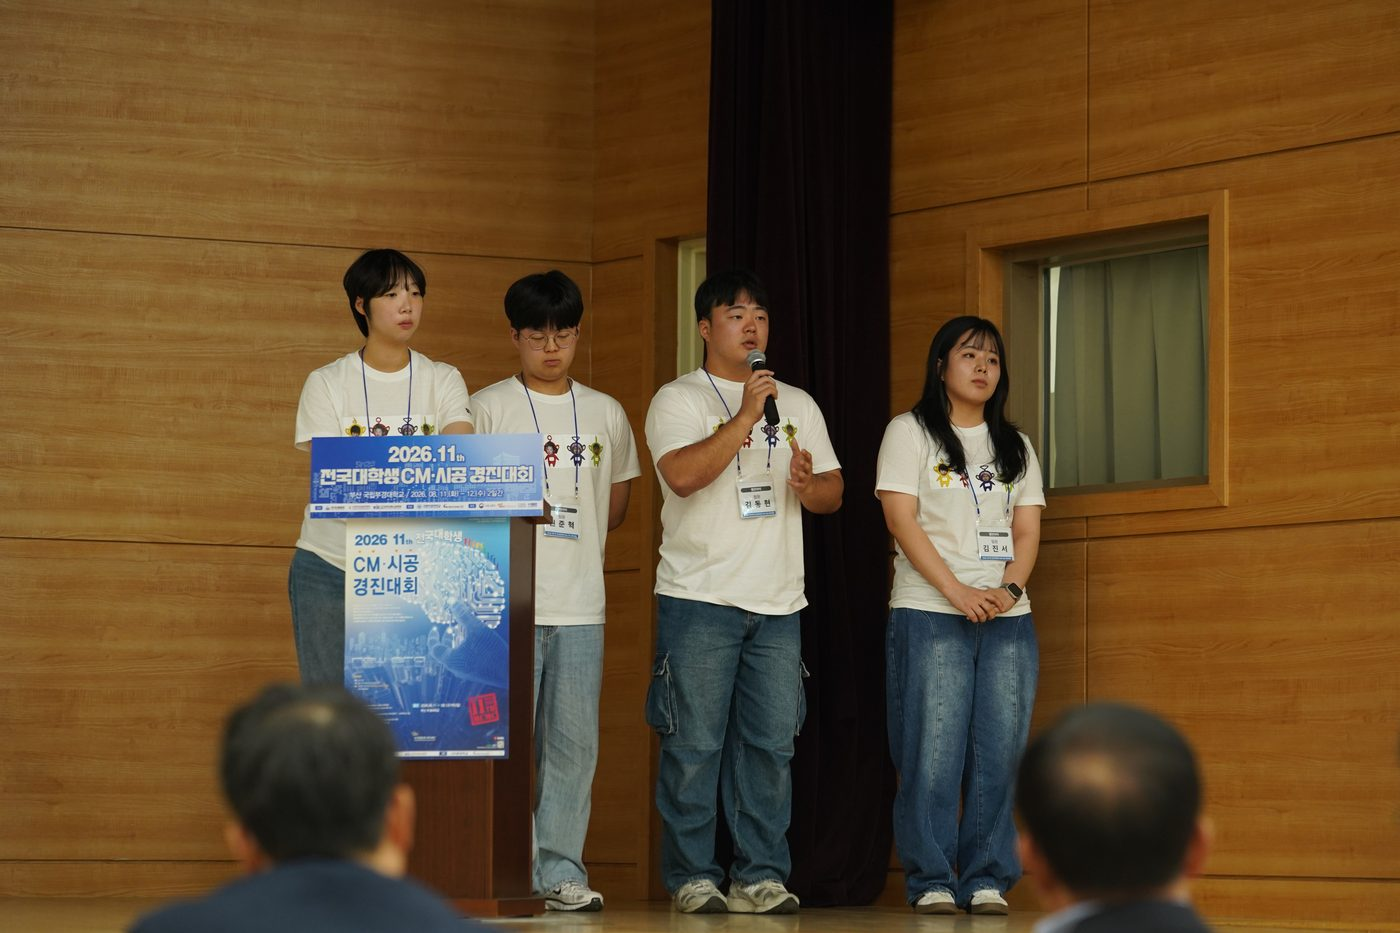
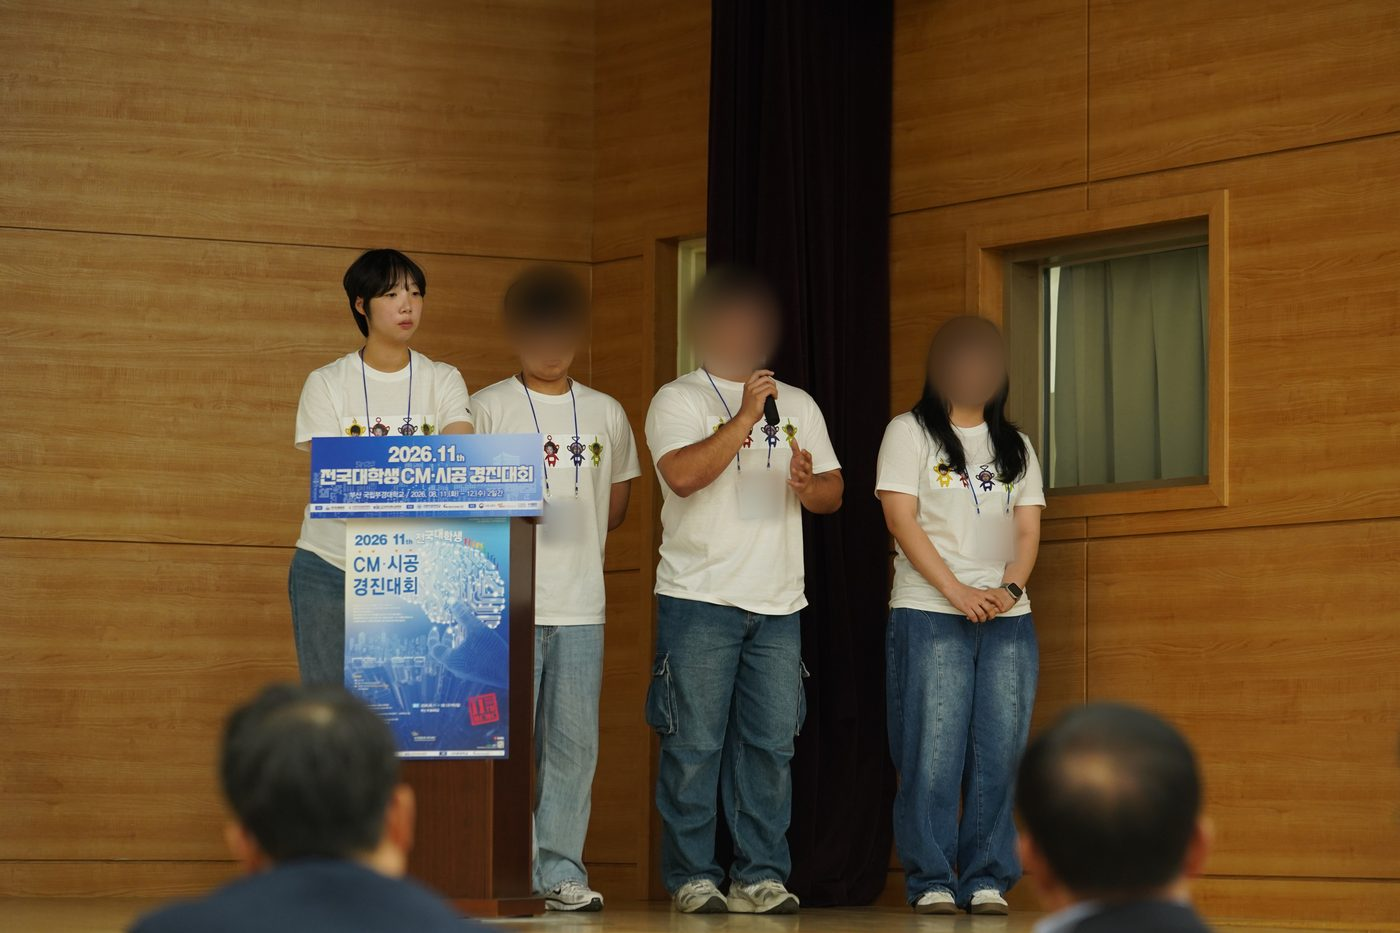
무영CM 대회장 전경 복원, 팀 발표 사진의 다른 팀원 얼굴·명찰 흐림 처리

diff --git a/activity/index.html b/activity/index.html
@@ -47,7 +47,7 @@
         <button class="fbtn" data-f="campus" aria-pressed="false">교내</button>
       </div>
       <ul class="acts rise" aria-live="polite">
-        <li class="act has" data-c="contest"><span class="y">2026</span><span class="cat"><span class="chip r">공모전·대회</span></span><span class="n"><button type="button" class="gopen" data-g="cm">무영CM 경진대회</button></span><span class="res"><span class="pic" aria-hidden="true"><svg viewBox="0 0 24 24" fill="none" stroke="currentColor" stroke-width="2" stroke-linecap="round" stroke-linejoin="round" aria-hidden="true"><rect x="3" y="6" width="18" height="14" rx="3"/><circle cx="12" cy="13" r="3.5"/><path d="M9 6l1.5-2h3L15 6"/></svg><span class="t">사진 </span>2</span><span class="chip r">혁신상</span></span></li>
+        <li class="act has" data-c="contest"><span class="y">2026</span><span class="cat"><span class="chip r">공모전·대회</span></span><span class="n"><button type="button" class="gopen" data-g="cm">무영CM 경진대회</button></span><span class="res"><span class="pic" aria-hidden="true"><svg viewBox="0 0 24 24" fill="none" stroke="currentColor" stroke-width="2" stroke-linecap="round" stroke-linejoin="round" aria-hidden="true"><rect x="3" y="6" width="18" height="14" rx="3"/><circle cx="12" cy="13" r="3.5"/><path d="M9 6l1.5-2h3L15 6"/></svg><span class="t">사진 </span>4</span><span class="chip r">혁신상</span></span></li>
         <li class="act has" data-c="contest"><span class="y">2026</span><span class="cat"><span class="chip r">공모전·대회</span></span><span class="n"><button type="button" class="gopen" data-g="schedule">한국건설관리학회 공정관리 경진대회</button><small>PERT·CPM 일정 계산 담당</small></span><span class="res"><span class="pic" aria-hidden="true"><svg viewBox="0 0 24 24" fill="none" stroke="currentColor" stroke-width="2" stroke-linecap="round" stroke-linejoin="round" aria-hidden="true"><rect x="3" y="6" width="18" height="14" rx="3"/><circle cx="12" cy="13" r="3.5"/><path d="M9 6l1.5-2h3L15 6"/></svg><span class="t">사진 </span>5</span><span class="chip line">참가</span></span></li>
         <li class="act has" data-c="contest"><span class="y">2026</span><span class="cat"><span class="chip r">공모전·대회</span></span><span class="n"><button type="button" class="gopen" data-g="road">제15회 도로경관디자인 대전</button><small>한국도로공사 · AI 활용 부문</small></span><span class="res"><span class="pic" aria-hidden="true"><svg viewBox="0 0 24 24" fill="none" stroke="currentColor" stroke-width="2" stroke-linecap="round" stroke-linejoin="round" aria-hidden="true"><rect x="3" y="6" width="18" height="14" rx="3"/><circle cx="12" cy="13" r="3.5"/><path d="M9 6l1.5-2h3L15 6"/></svg><span class="t">사진 </span>4</span><span class="chip line">출품</span></span></li>
         <li class="act has" data-c="ext"><span class="y">2026</span><span class="cat"><span class="chip o">대외</span></span><span class="n"><button type="button" class="gopen" data-g="intern">제일건설 풍경채 현장 인턴십</button></span><span class="res"><span class="pic" aria-hidden="true"><svg viewBox="0 0 24 24" fill="none" stroke="currentColor" stroke-width="2" stroke-linecap="round" stroke-linejoin="round" aria-hidden="true"><rect x="3" y="6" width="18" height="14" rx="3"/><circle cx="12" cy="13" r="3.5"/><path d="M9 6l1.5-2h3L15 6"/></svg><span class="t">사진 </span>3</span></span></li>

diff --git a/assets/site.js b/assets/site.js
@@ -33,7 +33,9 @@
   var G = {
     cm: {t:'무영CM 경진대회 · 혁신상', link:'projects/cm-proposal/', p:[
       ['images/gallery/cm/01.jpg','혁신상 수상 (팀 잼민아이)'],
-      ['images/gallery/cm/02.jpg','팀 발표']]},
+      ['images/gallery/cm/02.jpg','팀 발표'],
+      ['images/gallery/cm/03.jpg','경진대회 현장'],
+      ['images/gallery/cm/04.jpg','경진대회 현장']]},
     schedule: {t:'한국건설관리학회 공정관리 경진대회', p:[
       ['images/gallery/schedule/01.jpg','참가 확인증 · 2026년 11월 6일, 여수'],
       ['images/gallery/schedule/02.jpg','참가 명찰 · 공정관리 2팀'],
